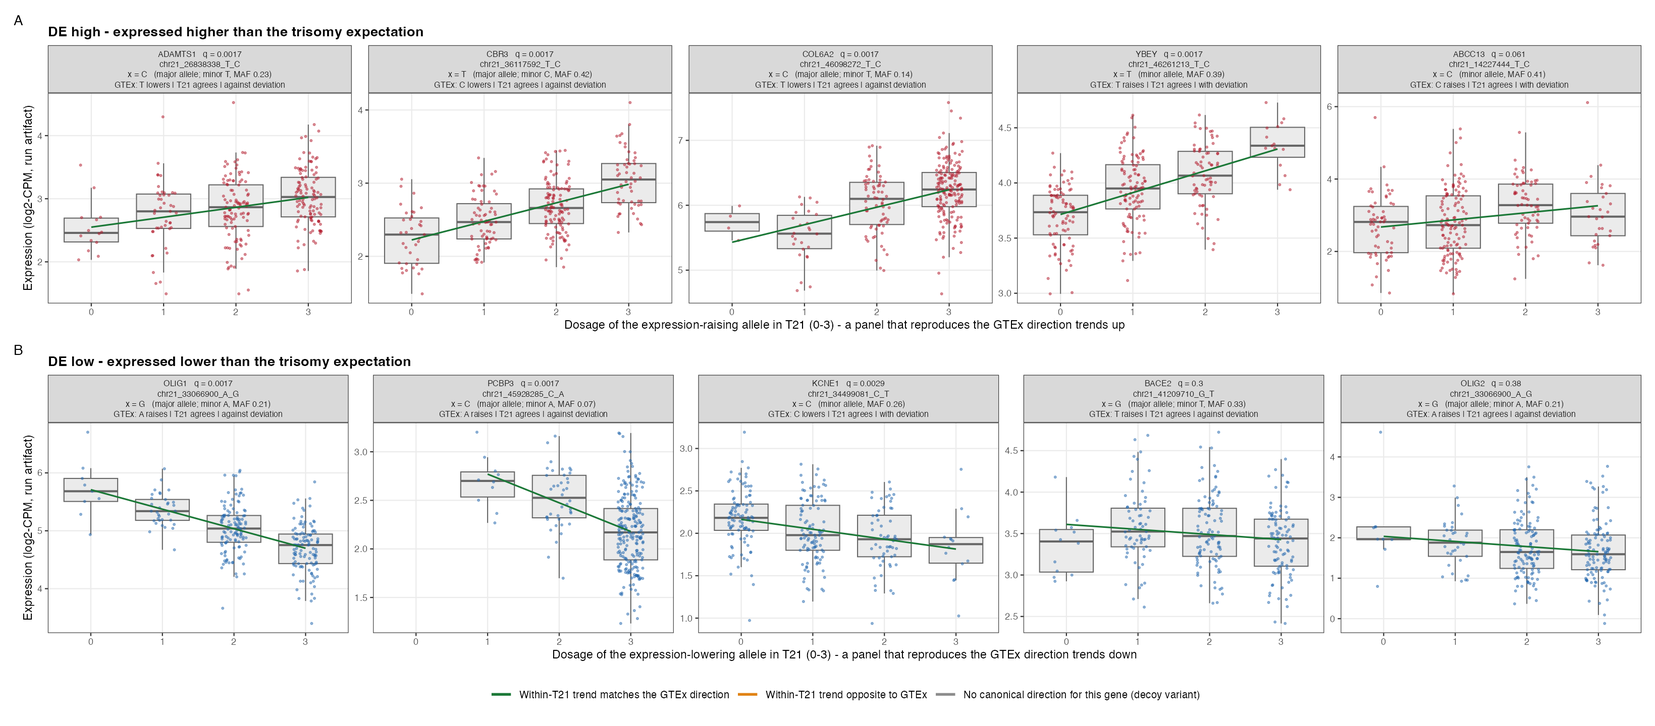
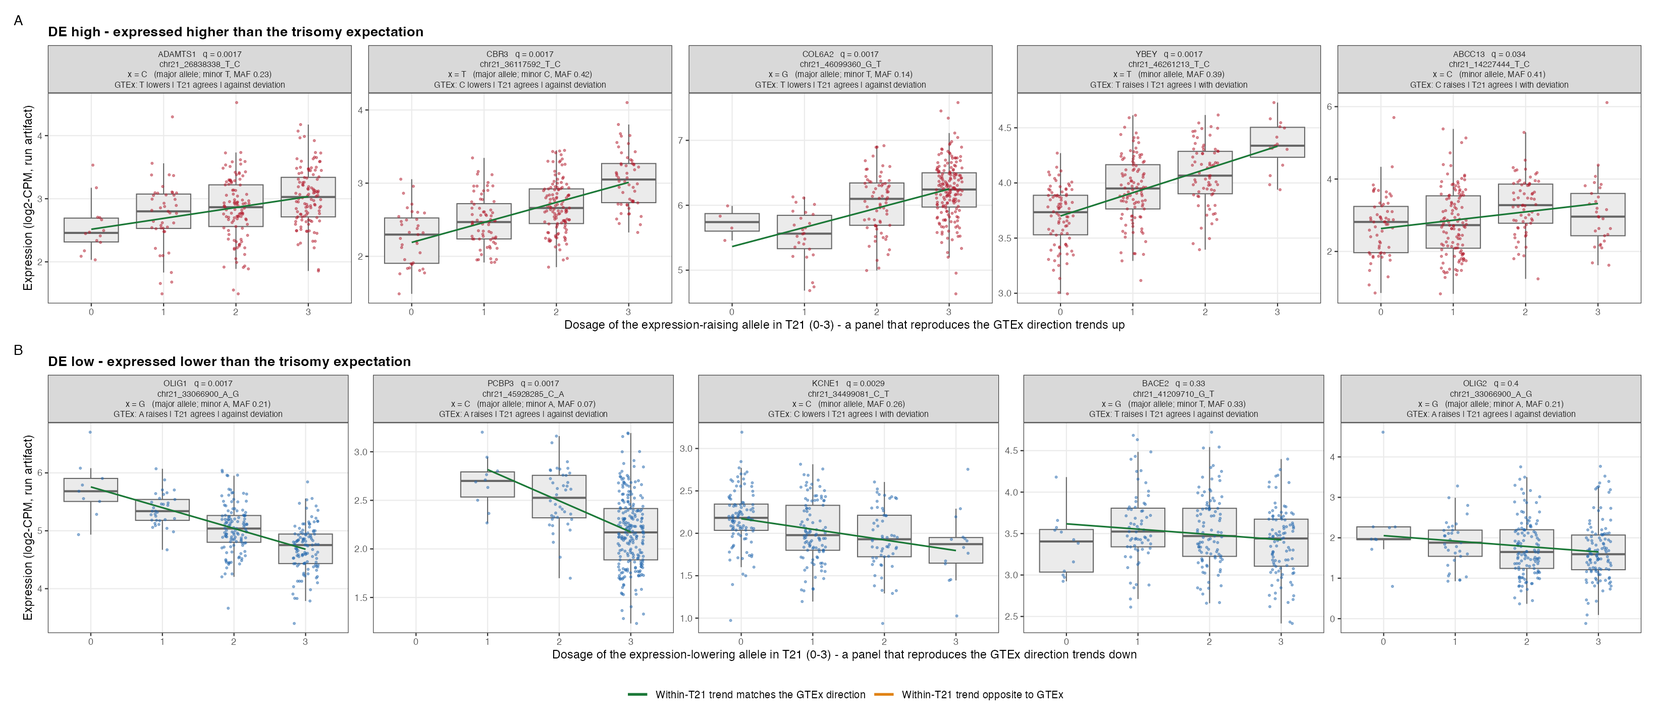
eQTL test: reference sets, genotype-side covariates, genotype structure
- Methods: covariates regressed out of genotype dosage as well as
  expression in the within-T21 eQTL model; the control call set described
  as the merged per-sample calls (#13); the two standalone controls
  replaced by the same test on every expected-dosage gene, the
  matched-effect-size comparisons of detection and of each dataset's top
  cis-eQTL effect, spike-in power, and the distal-variant scan as the
  negative control.
- Results: the control and effect-size sentences replaced by those
  comparisons; new figure for the effect-size comparison and power,
  replacing the effect-size scatter; dosage panels regenerated; eQTL
  calls updated to the genotype-adjusted test in the abstract, results
  table and discussion.
- Supplement: genotype structure in the within-T21 tests (new section
  and figure); the eQTL controls section and figure removed and the
  later sections and figures renumbered.
- Discussion: remove two claims about deviating genes and cis-eQTLs that
  the expected-dosage comparison does not support.

diff --git a/content/91.supplement.md b/content/91.supplement.md
@@ -11,22 +11,34 @@ These findings motivate adjusting for age, sex, BMI, sample source, and cell-typ
 ### Supplement B: Whole genome differential expression
 ![Volcano plots of all target-biotype genes genome-wide, before and after ploidy correction, with HSA21 genes highlighted.](images/figures/fig_volcano_all_genes.png){#fig:s2-volcano-all tag="S2" width="100%"}
 
-### Supplement C: eQTL dosage controls
-![Positive and negative controls, in the same layout as the main dosage figure. Neither set has a direction of deviation to match, so both are drawn against minor-allele copy number. A: the 10 HSA21 genes with the strongest GTEx whole-blood eQTL signal. B: each deviating gene tested against variants near an unrelated gene at least 5 Mb away.](images/figures/fig_eqtl_dosage_controls.png){#fig:s3-eqtl-dosage-controls tag="S3" width="100%"}
-
-
-### Supplement D: Comparison to the unadjusted analysis
-Running the identical pipeline without covariate adjustment and without excluding mosaic participants (397 participants: 302 T21, 95 D21) identified 23 deviating genes (10 higher, 13 lower) rather than 13, and detected a *cis*-eQTL for 14 of 20 testable genes rather than 7 of 10.
+### Supplement C: Comparison to the unadjusted analysis
+Running the identical pipeline without covariate adjustment and without excluding mosaic participants (397 participants: 302 T21, 95 D21) identified 23 deviating genes (10 higher, 13 lower) rather than 13, and detected a *cis*-eQTL for 14 of 20 testable genes rather than 8 of 10.
 Of the 13 genes that deviate in the primary (adjusted) analysis, 6 also deviate in the unadjusted analysis (*OLIG2*, *PCBP3*, *BACE2*, *YBEY*, *COL6A2*, *ABCC13*); the other 7 deviate only once age, BMI, and cell-type composition are accounted for (*KCNE1*, *OLIG1*, *RUNX1*, *AP000282.1*, *CBR3*, *ADAMTS1*, *ATP5PF*).
-Of the 23 genes that deviate in the unadjusted analysis, 17 drop out once adjusted — though for 11 of those, the effect size is similar in the adjusted model and the gene simply falls short of the stricter significance threshold in the smaller, more heavily parameterized model, rather than the underlying effect disappearing. This comparison is the basis for reporting the adjusted analysis as primary while retaining the unadjusted analysis for transparency (Figure {@fig:s4-comparison}).
+Of the 23 genes that deviate in the unadjusted analysis, 17 drop out once adjusted — though for 11 of those, the effect size is similar in the adjusted model and the gene simply falls short of the stricter significance threshold in the smaller, more heavily parameterized model, rather than the underlying effect disappearing. This comparison is the basis for reporting the adjusted analysis as primary while retaining the unadjusted analysis for transparency (Figure {@fig:s3-comparison}).
 
-![Gene-level comparison of ploidy-corrected fold change and significance between the adjusted (primary) and unadjusted (baseline) analyses.](images/figures/fig_run_comparison_adjusted_vs_baseline.png){#fig:s4-comparison tag="S4" width="90%"}
+![Gene-level comparison of ploidy-corrected fold change and significance between the adjusted (primary) and unadjusted (baseline) analyses.](images/figures/fig_run_comparison_adjusted_vs_baseline.png){#fig:s3-comparison tag="S3" width="90%"}
 
 
-### Supplement E: HSA21 differential expression (Supplementary Table S1)
+### Supplement D: HSA21 differential expression (Supplementary Table S1)
 `data/supplementary_table_S1_hsa21_differential_expression.csv` holds one row for each of the 318 targeted HSA21 genes: the DESeq2 base mean, the uncorrected and ploidy-corrected log2 fold change and adjusted p-value, the coverage and repeat flags, the dosage classification, and, for the genes that deviate, the gene-level *cis*-eQTL permutation result together with the best variant, its minor allele, and that allele's frequency.
 It is the source for Tables {@tbl:chr21-classification} and {@tbl:eqtl-genes}, and Figure {@fig:flow-map}.
 
-### Supplement F: Common allele overlap (Supplementary Table S2)
-`data/supplementary_table_S2_common_allele_overlap.csv` holds one row for each of the 4,981 *cis* variants tested within T21: position, reference and alternate allele, the alternate allele frequency in GTEx whole blood, in gnomAD v4.1 (global and non-Finnish European), and in this cohort, the minor allele each of those frequencies implies, and whether the three sources agree.
+### Supplement E: Common allele overlap (Supplementary Table S2)
+`data/supplementary_table_S2_common_allele_overlap.csv` holds one row for each of the 2,076 *cis* variants tested within T21: position, reference and alternate allele, the alternate allele frequency in GTEx whole blood, in gnomAD v4.1 (global and non-Finnish European), and in this cohort, the minor allele each of those frequencies implies, and whether the three sources agree.
 It supports the minor-allele labels used in the figures, and shows where a variant's two alleles are too close in frequency for those labels to be stable.
+
+### Supplement F: Genotype structure in the within-T21 eQTL tests
+The *cis*-eQTL model does not include genotype principal components, so we measured genotype structure in the within-T21 tests directly.
+For each of the 153 assessable HSA21 genes (not repeat-flagged, base mean ≥ 30), T21 expression was regressed on every common variant on the HSA21 long arm (minor allele frequency ≥ 0.05 and call rate ≥ 0.95 among the T21 participants analyzed; 97,438 variants) at least 5 Mb from the gene's transcription start site, one ordinary least-squares regression per gene–variant pair (11.1 million pairs).
+At that distance a variant cannot tag the gene's own *cis* locus, so in the absence of structure the p-values are uniform and the genomic inflation factor λ is 1.
+Variants on the short arm and around the centromere were set aside: GRCh38 places false duplications of 21q22.3 there [@doi:10.1126/science.abl3533; @doi:10.1186/s13059-023-02863-7], so a variant's coordinate can put a long-arm gene's own *cis* signal more than 5 Mb away (for *GATD3A*, *PWP2*, *SIK1*, and *ICOSLG*, down to p ≈ 10^−46^); including them changes λ by less than 0.02.
+Two references were used to read λ.
+The same regressions were run for 400 expressed HSA22 genes: population structure would inflate their tests as much as those of HSA21 genes, whereas a signal tied to HSA21 copy number would not.
+Participant labels were also permuted 200 times, jointly across genes, which keeps the correlation between genes and the linkage disequilibrium between variants; the spread of λ over these permutations is its sampling range for these correlated tests, about ±0.04 for a gene set.
+
+Without covariate adjustment (302 T21 participants), λ was 1.074 for HSA21 genes and 1.044 for HSA22 genes, both above their permutation ranges, and 26 HSA21 genes lay outside their own permutation range, against a permutation median of 3 (Figure {@fig:s4-distal-inflation}A, B).
+In the primary analysis (274 T21 participants), with age, sex, BMI, sample source, and cell-type composition regressed out of both expression and genotype dosage as in the *cis*-eQTL test, λ was 1.020 for HSA21 genes (permutation range 0.966–1.031), 1.016 for the 13 deviating genes, and 1.017 for HSA22 genes, all within their permutation ranges.
+Three of the 24 adjustment covariates were themselves associated with HSA21 genotype across the chromosome, against a permutation median of 0 (Figure {@fig:s4-distal-inflation}D): recruitment at NDSC2019 and the CD27+ B-cell and CD4+ central memory T-cell fractions.
+The adjusted tests are therefore not inflated beyond their permutation range at the level of the gene set, but the adjustment reaches that through covariates that track genotype structure rather than through a direct measure of ancestry, and some gene-level structure may remain: 11 HSA21 genes lay outside their own permutation range against a permutation median of 3 (p = 0.04), among them two deviating genes, *COL6A2* and *ABCC13* (permutation p = 0.020 and 0.025; Figure {@fig:s4-distal-inflation}C).
+
+![Genotype structure in the within-T21 tests. (A) Quantile–quantile plots of T21 expression regressed on common HSA21 long-arm variants at least 5 Mb from each gene, for the assessable HSA21 genes (top) and for HSA22 reference genes (bottom), without covariate adjustment (unadjusted) and with the covariates regressed out of expression and genotype (adjusted); shaded, 95% range over 200 participant permutations. Each plot shows expected −log~10~ p up to 4, where most tests lie; the inset shows the full range with that window outlined. (B) Genomic inflation factor λ per gene set with its permutation 95% range. (C) Per-gene λ in the adjusted analysis, HSA21 assessable and HSA22 reference genes, deviating genes in green; filled points lie outside the gene's own permutation 95% range. (D) Each covariate of the adjusted analysis regressed on every common HSA21 long-arm variant; filled points lie outside their own permutation 95% range.](images/figures/fig_distal_inflation.png){#fig:s4-distal-inflation tag="S4" width="100%"}

diff --git a/content/03.methods.md b/content/03.methods.md
@@ -43,11 +43,10 @@ All other Octopus parameters were left at their default values.
 Calls were filtered with the default Octopus hard-filter expression (QUAL < 10, MQ < 10, MP < 10, AD < 1, AF < 0.01, AFB > 0.25, SB > 0.98, BQ < 15, DP < 1, ADP < 1), and only records with FILTER = PASS were retained using BCFtools v1.21 [@doi:10.1093/gigascience/giab008].
 Filtering retained approximately 85% of raw calls, corresponding to a median of 81,667 variants per T21 sample (range, 59,473 to 104,854) and 66,238 variants per D21 sample (range, 63,054 to 80,735).
 
-For the T21 group, PASS-filtered per-sample calls were merged with bcftools merge, keeping distinct alternate alleles at the same position as separate records (--merge none).
-Samples with no call at a merged site were assigned the homozygous reference genotype (--missing-to-ref; 0/0/0).
-The 14 D21 samples were instead genotyped jointly with the Octopus population caller at the candidate variants from their per-sample calls (--source-candidates, --disable-denovo-variant-discovery), and records with FILTER = PASS were retained.
-The resulting call sets comprised 688,787 variant records in the T21 group and 178,308 in the D21 group.
-Of these, 529,386 T21 and 140,270 D21 records contained an SNV, and 160,468 T21 and 38,718 D21 records contained an indel; a multiallelic record can contain both, so the two counts overlap.
+Within each group, PASS-filtered per-sample calls were merged with bcftools merge, keeping distinct alternate alleles at the same position as separate records (--merge none).
+Samples with no call at a merged site were assigned the homozygous reference genotype (--missing-to-ref; 0/0/0 in T21, 0/0 in D21).
+The resulting call sets comprised 688,787 variant records in the T21 group and 189,474 in the D21 group.
+Of these, 529,386 T21 and 142,792 D21 records contained an SNV, and 160,468 T21 and 46,845 D21 records contained an indel; a multiallelic record can contain both, so the two counts overlap.
 The workflow was implemented in Snakemake v9.16.3 [@doi:10.12688/f1000research.29032.2] and run on the Alpine high-performance computing cluster (University of Colorado Boulder Research Computing).
 
 <!-- Milton's comment: see if title heading correction below is fine -->
@@ -78,16 +77,22 @@ Deviating genes were further stratified into tier 1 (≥50% deviation from the 1
 
 ### *cis*-eQTL association testing
 For each deviating gene, we retrieved all variants within ±1 Mb that GTEx v10 annotates as at least nominally associated with that gene's expression in whole blood.
-We regressed the covariate-adjusted expression measure against genotype dosage (0-3 copies of the alternate allele) within T21 participants, and retained each gene's strongest-associated variant.
+We regressed expression against genotype dosage (0-3 copies of the alternate allele) within T21 participants, with the covariates of the primary analysis (age, sex, BMI, sample source, and 19 cell-type proportions) regressed out of both expression and genotype dosage, as tensorQTL does [@doi:10.1186/s13059-019-1836-7], and retained each gene's strongest-associated variant.
 For each gene, we report the effect per copy of whichever allele, minor or major, has the effect in the T21 cohort.
 Where figures label or sign effects by the minor allele, the minor allele was taken from the GTEx whole-blood allele frequency and checked against gnomAD v4.1 (Supplementary Table S2).
 <!-- Milton's comment: are you running more permutations for genes that are borderline significant? -->
-Statistical significance was assessed by a gene-level permutation test where expression values were shuffled across participants 1,000 times, the same variant search was repeated on each shuffle, and the fraction of shuffles producing an association at least as strong as the observed one gave a gene-level permutation p-value.
+Statistical significance was assessed by a gene-level permutation test where the covariate-adjusted expression values were shuffled across participants 1,000 times, the same variant search was repeated on each shuffle, and the fraction of shuffles producing an association at least as strong as the observed one gave a gene-level permutation p-value.
 Permutation p-values were adjusted for multiple testing across genes using the Benjamini-Hochberg procedure [@doi:10.1111/j.2517-6161.1995.tb02031.x].
 
-We evaluated this procedure with two controls run through the identical pipeline.
-As a negative control, each deviating gene was tested against variants near an unrelated gene ≥5 Mb away.
-As a positive control, we tested the 10 HSA21 genes with the strongest GTEx whole-blood eQTL signal.
+We compared the deviating genes with the HSA21 genes at the expected dosage.
+We applied the identical test (same variant selection, participants, covariates, and 1,000 permutations) to every expected-dosage gene with a GTEx variant to test, adjusting for multiple testing across those genes.
+Detection depends on the strength of an eQTL, so we compared the deviating genes with expected-dosage genes whose eQTLs are of similar strength in GTEx.
+Among the expected-dosage genes that are GTEx whole-blood eGenes (q < 0.05), we fit a logistic regression of detection on the log2 of the absolute GTEx allelic fold change (aFC) [@doi:10.1101/gr.216747.116] at the GTEx lead variant, and compared the observed number of detected deviating genes with the distribution of the sum of their predicted probabilities.
+To compare effect sizes, we estimated the aFC in T21 by least squares, modeling each of the three HSA21 copies as contributing its own expression and fitting the covariates jointly.
+Each dataset's effect was taken at its own strongest variant, so that both carry the same selection: the T21 aFC at the variant selected by the within-T21 test, signed by the GTEx direction at that variant, was divided by the absolute GTEx aFC at the GTEx lead variant.
+We compared this ratio between the deviating genes and the expected-dosage eGenes whose absolute GTEx aFC lay within the deviating genes' range, using a Wilcoxon rank-sum test.
+To estimate the power of the test for each tested deviating gene, we permuted its expression across participants, added an allelic effect at its GTEx lead variant under the three-copy model, and repeated the gene-level test, 200 times for each of a grid of effect sizes; a simulation counted as a detection at gene-level permutation p < 0.05, and power at the gene's GTEx aFC was interpolated from the grid.
+As a negative control, we regressed the expression of every assessable HSA21 gene on every common HSA21 variant at least 5 Mb from its transcription start site, where no *cis* effect is expected, and measured the genomic inflation factor (Supplement F).
 
 ### Sensitivity analysis
-To quantify the effect of covariate adjustment and mosaic exclusion, we compared the adjusted results to the outputs from the identical pipeline without covariate adjustment and without excluding mosaic participants (Figures {@fig:s1-covariates}D and {@fig:s4-comparison}).
+To quantify the effect of covariate adjustment and mosaic exclusion, we compared the adjusted results to the outputs from the identical pipeline without covariate adjustment and without excluding mosaic participants (Figures {@fig:s1-covariates}D and {@fig:s3-comparison}).

diff --git a/content/04.results.md b/content/04.results.md
@@ -54,13 +54,14 @@ Table: Classification of all 318 targeted HSA21 genes in the primary (adjusted) 
 <!-- Marc: deviating genes we defined this in methods but I think a sentence here for the reader like We defined deviating genes as those whose expression differed from the expected 1.5-fold dosage effect by at least 33% (adjusted p < 0.01). -->
 To assess potential genetic effects explaining deviating genes, we compared the ploidy-aware genotypes and covariate-adjusted whole-blood gene expression of 274 T21 participants to common whole-blood eQTLs.
 Of the 13 deviating genes, 3 (*ATP5PF*, *RUNX1*, *AP000282.1*) have no GTEx-tested variant nearby.
-Of the remaining 10 testable genes, 7 have a detected *cis*-eQTL and 3 do not (*ABCC13*, *BACE2*, *OLIG2*) (Table {@tbl:eqtl-genes}, Figures {@fig:eqtl-dosage} and {@fig:flow-map}A).
+Of the remaining 10 testable genes, 8 have a detected *cis*-eQTL and 2 do not (*BACE2*, *OLIG2*) (Table {@tbl:eqtl-genes}, Figures {@fig:eqtl-dosage} and {@fig:flow-map}A).
+The expression of *ABCC13* (q = 0.034) is also associated with HSA21 genotype far from its own locus (Supplement F).
 All 13 deviating genes sit on the q arm, between 14.2 and 46.3 Mb (Figure {@fig:flow-map}B).
 Allele frequencies for every tested variant, in GTEx whole blood, in gnomAD, and in this cohort, are given in Supplementary Table S2.
 
 | Gene | Direction | Tier | *cis*-eQTL status |
 |---|---|---|---|
-| *ABCC13* | Higher | 1 | Tested, not detected |
+| *ABCC13* | Higher | 1 | Detected |
 | *CBR3* | Higher | 2 | Detected |
 | *ADAMTS1* | Higher | 2 | Detected |
 | *YBEY* | Higher | 2 | Detected |
@@ -84,15 +85,18 @@ Also the genes in the plots should be italic.
 
 ![For each of the 10 testable deviating genes, expression against allele copy number in T21, at the variant with the strongest within-cohort signal. Each panel is drawn against the allele that GTEx links to that gene's own direction of deviation. A panel therefore trends up in A, the genes expressed higher than expected, and down in B, the genes expressed lower, when the cohort reproduces the GTEx direction. Panel labels give the minor allele, its frequency, and whether the minor allele runs with or against the deviation.](images/figures/fig_eqtl_dosage_panels.png){#fig:eqtl-dosage width="100%"}
 
-Effect sizes on the deviating genes' best variants were modest (~0.13--0.20 log2-CPM per additional copy of the minor allele).
-The effect sizes were similar in magnitude to negative controls (~0.12), which tested variants near an unrelated gene ≥5 Mb away.
-The effect sizes were much smaller than positive controls (~0.48), which included the 10 HSA21 genes with the strongest GTEx whole-blood eQTL signal (Figures {@fig:eqtl-effects} and {@fig:s3-eqtl-dosage-controls}).
+To ask whether a detected *cis*-eQTL is more common among the deviating genes than among HSA21 genes at the expected dosage, we applied the identical test to the 99 testable expected-dosage genes, of which 59 (60%) had a detected *cis*-eQTL.
+Among the 97 of these that are GTEx whole-blood eGenes, detection rose with the strength of the GTEx eQTL (p < 0.001), and at the deviating genes' own GTEx effect sizes it predicted 7.4 detections, against the 8 observed (probability of 8 or more, 0.49).
+The effects in T21 were also similar in size: relative to the GTEx effect, the median T21 allelic fold change was 0.73 for the deviating genes and 0.76 for the 49 expected-dosage eGenes with GTEx effects in the same range (Wilcoxon p = 0.64; Figure {@fig:eqtl-overview}A).
+*BACE2* and *OLIG2* were not missed for lack of power: with their GTEx effect added to their own permuted expression, the test detected it in 100% and 99% of simulations (Figure {@fig:eqtl-overview}B).
+Their T21 effects relative to GTEx (0.33 and 0.36) lay within the range of the 11 matched expected-dosage eGenes without a detected *cis*-eQTL (median 0.44).
+As a negative control, the expression of the assessable HSA21 genes regressed on common HSA21 variants at least 5 Mb away showed no inflation beyond its permutation range (λ = 1.020; Supplement F).
 
 ![Classification of the 318 targeted HSA21 genes and the position of the genes that deviate. A: flow of every gene from the full set, through the dosage classification, to its *cis*-eQTL outcome. B: chromosome 21 with a band at the transcription start site of each deviating gene, colored by *cis*-eQTL detection status. Labels above the chromosome are genes expressed higher than expected; labels below are genes expressed lower.](images/figures/fig_lane_flow_and_map.png){#fig:flow-map width="100%"}
 
-![Effect size against statistical confidence for the deviating genes and their positive and negative controls. Slopes are signed by the minor allele, so a positive value means the rarer allele raises expression. The dashed line marks the q = 0.05 threshold for detection.](images/figures/fig_eqtl_effect_sizes.png){#fig:eqtl-effects width="90%"}
+![Effect size and power of the *cis*-eQTL test. A: for each gene, the T21 allelic fold change at its strongest variant in T21, relative to the GTEx whole-blood allelic fold change at the GTEx lead variant, for the 10 testable deviating genes and the 49 expected-dosage GTEx eGenes whose GTEx effect lies in the same range. Each ratio is signed by the GTEx direction at the T21 variant, so the dashed line marks an effect equal to GTEx's and the dotted line none; bars mark the medians. B: power of the gene-level test for each deviating gene, from simulations that add an allelic effect of the size on the x-axis to the gene's own permuted expression; points mark each gene's GTEx effect size. Red: higher than expected; blue: lower than expected; grey: expected dosage; open points: no detected *cis*-eQTL.](images/figures/fig_eqtl_detection_overview.png){#fig:eqtl-overview width="100%"}
 
 In summary, after ploidy correction most HSA21 genes showed the expected increase with gene dosage.
 Only 13 deviated.
-Common *cis*-eQTLs may explain some of the variance in 7 of the deviating genes, though the effect sizes are small.
-Six genes remain open candidates for a mechanism other than a common *cis*-eQTL: 3 that were tested and showed no genetic signal (*ABCC13*, *BACE2*, *OLIG2*), and 3 that could not be tested for lack of common GTEx data (*ATP5PF*, *RUNX1*, *AP000282.1*) (Figure {@fig:flow-map}).
+Common *cis*-eQTLs may explain some of the variance in 8 of the deviating genes, about as many as expected for HSA21 genes at the expected dosage that carry eQTLs of the same GTEx strength.
+Five genes remain open candidates for a mechanism other than a common *cis*-eQTL: 2 that were tested and showed no genetic signal (*BACE2*, *OLIG2*), and 3 that could not be tested for lack of common GTEx data (*ATP5PF*, *RUNX1*, *AP000282.1*) (Figure {@fig:flow-map}).

diff --git a/content/05.discussion.md b/content/05.discussion.md
@@ -26,8 +26,7 @@ We tested for deviation both above and below the expected dosage.
 The compensation hypothesis predicts that genes are downregulated toward euploid levels.
 However, eQTLs can lead to increases or decreases in expression.
 
-Six genes had higher-than-expected expression, 4 of which had a detected *cis*-eQTL (*CBR3*, *ADAMTS1*, *YBEY*, *COL6A2*), 1 had no detected *cis*-eQTL (*ABCC13*), and 1 had no GTEx variant to test (*ATP5PF*).
-The fact that most higher-than-expected genes have common *cis*-eQTLs confirms the genetic effect in the population regardless of any potential dosage compensation.
+Six genes had higher-than-expected expression, 5 of which had a detected *cis*-eQTL (*CBR3*, *ADAMTS1*, *YBEY*, *COL6A2*, *ABCC13*), and 1 had no GTEx variant to test (*ATP5PF*).
 For the lower-than-expected genes, 3 had a detected *cis*-eQTL (*OLIG1*, *KCNE1*, *PCBP3*), 2 had no detected *cis*-eQTL (*BACE2*, *OLIG2*), and 2 had no GTEx variant to test (*AP000282.1*, *RUNX1*).
 Future research on larger cohorts should attempt to reproduce the pattern of genetic control.
 <!--
@@ -37,9 +36,7 @@ Marc: I'd move the last sentence with the limitations so we can have limitations
 <!-- Marc: related to fig 5B we can add that some of the genes can be in the neighboring TAD and having the same chromatin; some of the regions have been described in https://pmc.ncbi.nlm.nih.gov/articles/PMC12571509/ which can be the mechanism -->
 
 There are multiple other factors that may explain deviations in gene expression.
-<!-- Milton's comment: I think you already adjusted for cell composition changes, right? I suggested to remove it here -->
 Candidate non-genetic mechanisms for lower-than-expected transcript counts include autoregulatory feedback loops, post-transcriptional silencing by triplicated HSA21 miRNAs, chromatin remodeling, and alternative splicing into unstable isoforms.
-<!-- Milton's comment: I separated this since the previous sentence is about nongenetic effects only, right? the ones in the next sentence are genetic effects (I've added "either directions" (lower and greater than expected)) -->
 In either direction, genetic effects not captured by common *cis*-eQTLs, such as rare regulatory variants, splicing QTLs (sQTLs), or *trans*-eQTLs, may also contribute.
 Integrating evidence from additional omic profiles would enable the direct testing of multiple alternative hypotheses.
 Another promising direction is to merge results with GWAS disease hits to assess relationships to co-occurring conditions that present at higher frequencies in those with DS than in the general population.
@@ -52,8 +49,7 @@ Our study has several limitations.
 - [something about the 3? genes that had no GTEx variatns to test]{.mark}
 
 <!-- Milton's comment: Lucas, this is what I mentioned the day you presented this last time -->
-- [not sure if this is a limitation or a separate paragraph]{.mark} the GTEx *cis*-eQTLs we tested were mapped in bulk whole blood, which is biased toward large-effect eQTLs shared across cell types and dilutes cell-type-specific ones [@doi:10.1038/s41586-026-10577-6]; cell-type-specific eQTLs (e.g., from single-cell data like OneK1K [@doi:10.1126/science.abf3041]) might explain some of the deviating genes without a detected *cis*-eQTL (*ABCC13*, *BACE2*, *OLIG2*).
+- [not sure if this is a limitation or a separate paragraph]{.mark} the GTEx *cis*-eQTLs we tested were mapped in bulk whole blood, which is biased toward large-effect eQTLs shared across cell types and dilutes cell-type-specific ones [@doi:10.1038/s41586-026-10577-6]; cell-type-specific eQTLs (e.g., from single-cell data like OneK1K [@doi:10.1126/science.abf3041]) might explain some of the deviating genes without a detected *cis*-eQTL (*BACE2*, *OLIG2*).
 
 In conclusion, we present the largest study to date that tests the effects of common *cis*-eQTLs on genes that deviate from the expected 1.5-fold change in people with DS.
-We found that the majority of deviating genes have common *cis*-eQTLs that explained the variance.
-We therefore encourage future researchers of DS to incorporate multiple omic data types into analyses to explain anomalies seen in a single modality.
+We encourage future researchers of DS to incorporate multiple omic data types into analyses to explain anomalies seen in a single modality.

diff --git a/content/01.abstract.md b/content/01.abstract.md
@@ -10,8 +10,8 @@ We compared the bulk RNA-seq profiles of protein-coding genes, lncRNAs, and pseu
 We filtered out genes with low read counts or high genomic repeat content and applied ploidy correction to the differential expression analysis.
 We found 13 genes that differed significantly from the expected fold change.
 We cross-referenced GTEx whole-blood eQTLs (*cis* window ±1 Mb) with the 13 deviating genes.
-Seven genes had a detected common *cis*-eQTL.
-The higher-than-expected expression of *ABCC13* and the lower-than-expected expression of *BACE2* and *OLIG2* did not have a genomic explanation despite having testable variants.
+Eight genes had a detected common *cis*-eQTL.
+The lower-than-expected expression of *BACE2* and *OLIG2* did not have a genomic explanation despite having testable variants.
 
 Overall, allele dosage determines most transcriptomic anomalies in people with T21.
 The few deviations not explained by common *cis*-eQTLs will require other mechanistic explanations.
